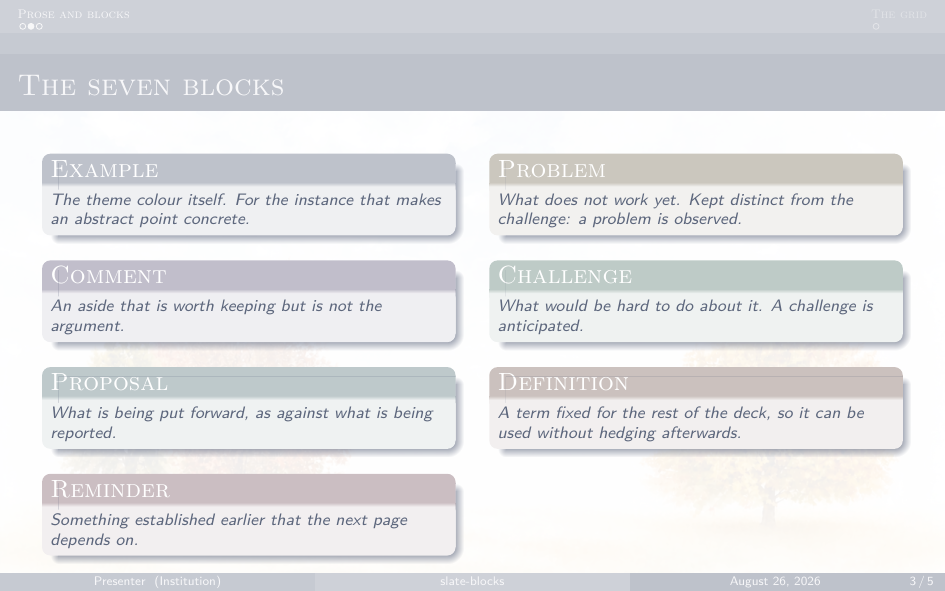
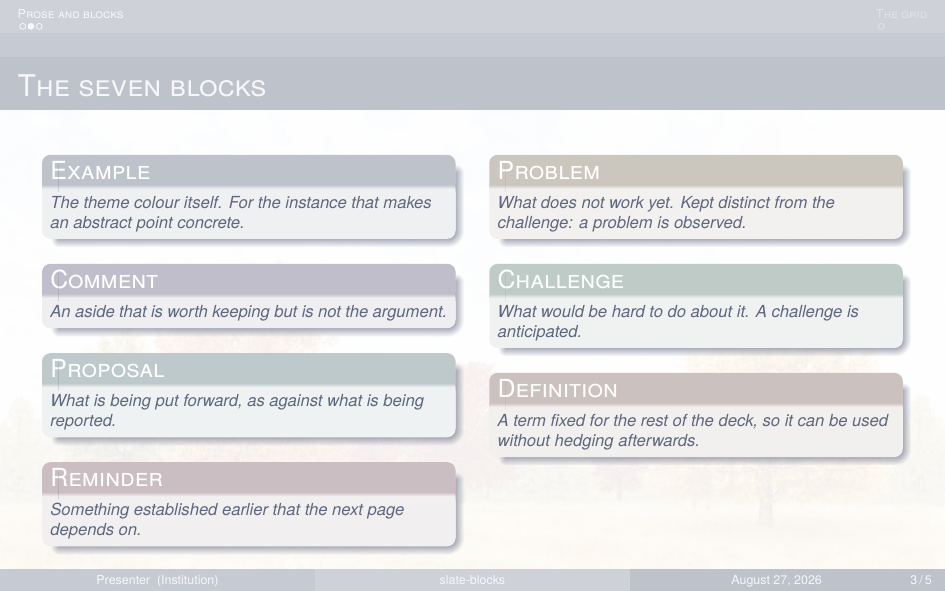
Set the title page on the photograph; TeX Gyre for the type
The new cover puts a maple where the old one had a fog bank, dead behind
the date and the logo. Measured, the date's ground went from a flat 247
(sd 0.8) to 190 (sd 39.7), and its contrast from 5.76:1 to 1.78:1.

Lowering the opacity does not recover it — 0.35 would be needed, and the
file's own note says the picture starts looking faded below 0.5. Nor does
a white scrim: at 0.40 the worst case only reaches 2.94:1, because the
ink is light to begin with. So the type moves instead of being defended.

The panel goes. Its stated job was to lift the title off a photograph
busy enough to swallow a plain one; the sky it actually sat on runs at
sd 4.2 with nothing darker than (213,228,245). It was armour against
nothing, and its hard border was the loudest edge on the page.

Title, author and affiliation now sit in the sky above the crowns; the
date sits on the field below them, which is the only other flat ground
the picture has; the logo goes to the top-right corner, the palest patch
on the page, and out of the bottom centre, the worst. Worst-case contrast
across the five lines is 5.28:1 to 5.74:1.

Two tints are raised to !300 and both are load-bearing: the subtitle
because with no panel it reads against sky and !250 gave 3.58:1, the date
because the field is darker than the sky and !250 gave 3.32:1. The date
is \small rather than \large, which does not relax that — smaller type
wants 4.5:1 where \large wanted 3:1. !300 is the lightest it can be while
it stands on the field.
[…]

Changed region(s): [[0.0, 0.2741, 1.0, 1.0], [0.5217, 0.2741, 0.982, 0.7919], [0.0, 0.1218, 0.3069, 0.1827]]

diff --git a/slate-blocks/style.tex b/slate-blocks/style.tex
@@ -8,6 +8,35 @@
 % Load after \documentclass and the \usetheme lines. See README.md.
 % =============================================================================
 
+% -----------------------------------------------------------------------------
+% THE TYPEFACES
+%
+% TeX Gyre Pagella (Palatino, 1949) for the roman, TeX Gyre Heros (Helvetica,
+% 1957) for the sans. Beamer sets its body in the sans, so Heros is what most
+% of the deck is in; \textrm reaches for Pagella, which is what the title and
+% subtitle use.
+%
+% WHY THESE AND NOT A BUNDLED FONT
+%
+% This template's one promise that midcentury-olive/ cannot make is that it
+% builds under pdfLaTeX as well as XeLaTeX. An OpenType face would mean
+% fontspec, and fontspec means XeLaTeX only — it would cost the second engine,
+% the engine=pdflatex in the README's Overleaf button, and the small zip.
+%
+% TeX Gyre ships with every TeX Live and is on Overleaf, so there is nothing to
+% bundle and nothing to install. It also sidesteps the trap that made
+% midcentury-olive/ carry its fonts in the first place: a face that is not
+% installed gets substituted in silence, and the deck that looked right on one
+% machine is set in something else on another. A missing package is a build
+% error; a missing font is not.
+%
+% Both are period faces, which suits the photograph, but they are not a RETRO
+% pairing and that is deliberate — midcentury-olive/ already occupies that
+% ground with EB Garamond and Montserrat, and the point of keeping two
+% templates is to have something to choose between.
+\usepackage{tgpagella}
+\usepackage{tgheros}
+
 \usepackage{xcolor}
 \usepackage{etoolbox}   % \BeforeBeginEnvironment, used by the block factory
 \usepackage{tikz}
@@ -160,8 +189,9 @@
 % -----------------------------------------------------------------------------
 % THE TITLE PAGE
 %
-% \slatetitlepage — a full-bleed photograph with the title in a double-stroked
-% box over it, the box shaded from one analogous colour to the other.
+% \slatetitlepage — a full-bleed photograph with the type set straight onto it:
+% title and author block in the sky, the date on the ground below the tree
+% line, the logo in the top-right corner. Nothing is boxed.
 %
 % Set the five commands below it first. They are separate commands rather than
 % arguments because the title page is the one place a deck wants long strings
@@ -173,7 +203,7 @@
 \newcommand{\slateAuthor}   {Author}
 \newcommand{\slateAffiliate}{Affiliation}
 \newcommand{\slateDate}     {\today}
-\newcommand{\slateLogo}     {\includegraphics[width=0.25\paperwidth]{figures/logo.png}}
+\newcommand{\slateLogo}     {\includegraphics[width=0.18\paperwidth]{figures/logo.png}}
 
 \newcommand{\slatetitlepage}{%
   \begin{tikzpicture}[remember picture, overlay]
@@ -191,29 +221,69 @@
     \node[inner sep=0pt, opacity=0.55] at (current page.center)
       {\slatecover{\slateBackground}};
 
-    % The double stroke and the shading are what lift the box off a photograph
-    % busy enough to swallow a plain panel. shading angle=60 runs the gradient
-    % across the diagonal rather than flat, so neither edge matches the photo
-    % behind it for long.
-    \node[
-      above=0.5cm, align=center,
-      draw=AnalogousColor-1!50,
-      left color=AnalogousColor-1!75, right color=AnalogousColor-1!25,
-      shading angle=60,
-      double, double distance=0.1cm,
-      inner xsep=15pt, inner ysep=10pt,
-      minimum width=0.7\textwidth, text width=0.6\textwidth,
-      color=AnalogousColor-2!250,
-    ] (title) at (current page.center)
-      {\LARGE\slateTitle \\[5pt] \small\slateSubTitle};
+    % NO PANEL, AND WHY NOT.
+    %
+    % There used to be a double-stroked, shaded box behind the title here. Its
+    % stated job was to lift the title off "a photograph busy enough to swallow
+    % a plain panel". Measure the ground it actually sat on and the premise
+    % fails: the sky behind it runs at sd 4.2 with no pixel darker than
+    % (213,228,245). The panel was armour against a busyness that is not there,
+    % and its hard border was the loudest edge on the page.
+    %
+    % What IS busy is the band of crowns across the middle, from about 0.61 of
+    % the page height to 0.86. So the type is placed around that band instead
+    % of being armoured against it: this block above it, the date below it.
+    % Read the numbers in these comments as worst-case contrast against the
+    % darkest single pixel under each line, not against its average.
+    %
+    % ANY NEW PHOTOGRAPH INVALIDATES ALL OF IT. These offsets are measurements
+    % of one picture, not a layout that adapts. Change \slateBackground and the
+    % first thing to do is find where its flat ground is.
+    %
+    % !300 rather than the !250 used elsewhere: with no panel the type is read
+    % against the sky directly, and at !250 the subtitle came to 3.58:1, under
+    % the 4.5:1 that text this size wants. !300 gives title 5.53:1 and subtitle
+    % 5.74:1.
+    \node[anchor=north, align=center, text width=0.62\paperwidth,
+          color=AnalogousColor-2!300]
+      (title) at ([yshift=-0.28\paperheight]current page.north)
+      {\LARGE\slateTitle \\[6pt] \small\slateSubTitle};
 
-    \node[below=0.5cm]  (author)    at (title.south)
+    % These two stay at !250 — they are still on sky, at 5.28:1 and 5.35:1.
+    % \slateAffiliate is the lowest line of the block and clears the crowns by
+    % about 0.02\paperheight. That is the whole budget: pushing this block
+    % further down puts the affiliation into the trees.
+    \node[below=0.55cm] (author)    at (title.south)
       {\color{AnalogousColor-1!250}\slateAuthor};
-    \node[below=0.25cm] (affiliate) at (author.south)
+    \node[below=0.22cm] (affiliate) at (author.south)
       {\color{AnalogousColor-1!250}\small\slateAffiliate};
-    \node[below=0.25cm] (date)      at (affiliate.south)
-      {\color{AnalogousColor-1!250}\large\slateDate};
-    \node[opacity=0.67, below=1cm]  at (affiliate.south) {\slateLogo};
+
+    % The date is deliberately NOT in that chain. It sits on the field below
+    % the tree line, which is the only other flat ground this photograph has:
+    % from 0.86 of the page down it runs at sd 8 with nothing darker than 188.
+    % Putting it there leaves the trees between the two blocks rather than
+    % behind either, and it is why the block above can sit as low as it does.
+    %
+    % !300 too, but for the opposite reason: the field is darker than the sky,
+    % 188 against 232 at worst, and at !250 the date came to 3.32:1. !300 puts
+    % it at 5.41:1. In the position it used to occupy — bottom centre, over the
+    % maple — it was 1.78:1.
+    %
+    % So !300 is the LIGHTEST this line can be while it stands on the field,
+    % and shrinking it does not relax that — smaller type wants 4.5:1 where
+    % \large only wanted 3:1. Anyone who wants it lighter has to move it back
+    % up into the sky with the rest of the block, where !250 reaches 5.2:1.
+    \node[anchor=south] (date)
+      at ([yshift=0.081\paperheight]current page.south)
+      {\color{AnalogousColor-1!300}\small\slateDate};
+
+    % Top-right, which is the flattest and palest patch on the page: mean 244,
+    % sd 4.4. Bottom centre, where this used to be, is the worst: mean 189,
+    % sd 29. Nothing here draws a box — the thin rectangle visible in demo.pdf
+    % is inside figures/logo.png, the placeholder, and goes with a real mark.
+    \node[anchor=north east, opacity=0.67]
+      at ([xshift=-0.045\paperwidth, yshift=-0.055\paperheight]current page.north east)
+      {\slateLogo};
 
   \end{tikzpicture}%
 }
@@ -275,14 +345,34 @@
     \tcbitem[swotheader=swotHelpful] {\color{swotInk}\swotAxisHelpful}
     \tcbitem[swotheader=swotHarmful] {\color{swotInk}\swotAxisHarmful}
 
+    % 2.5cm, not the 2.4cm this used to be. The parbox is rotated, so this
+    % number is the length the label has ALONG the row; the column's own 1cm is
+    % how many stacked lines fit across it.
+    %
+    % 2.4cm = 68.3pt, and "External origin" in Heros measures 69.8pt. It wrapped
+    % to two lines, which made four lines in a column that holds three, and the
+    % \tiny second line was pushed out of the box — it is simply missing from
+    % the render. "Internal origin" is 66.2pt and fitted, which is why only one
+    % of the two labels broke and why it was easy to miss. Any change of font
+    % has to be re-checked here; 2.5cm = 71.1pt leaves 1.3pt of slack.
+    %
+    % WHILE HERE — the deck's one standing Overfull \hbox is explained, though
+    % not fixed. README.md called it a phantom of the raster, on the grounds
+    % that narrowing the quadrant boxes never moved it. It is not the
+    % quadrants: it is the \tiny parenthetical in THIS parbox, which measures
+    % 77.5pt against the box's 71.1pt. Widening to 3.2cm does silence it — and
+    % costs an Overfull \vbox of 16.5pt instead, because the parbox width is
+    % the rotated label's height and the grid then no longer fits the frame.
+    % The ceiling is about 2.62cm and the label wants 2.73cm, so the last ~3pt
+    % has to come from shorter axis text, not from this number.
     \tcbitem[swotfirstcol=swotInternal]
-      {\rotatebox[origin=c]{90}{\parbox[t]{2.4cm}{\centering
+      {\rotatebox[origin=c]{90}{\parbox[t]{2.5cm}{\centering
         \color{swotInk}\swotAxisInternal\par}}}
     \tcbitem[swotbox=S] #1
     \tcbitem[swotbox=W] #2
 
     \tcbitem[swotfirstcol=swotExternal]
-      {\rotatebox[origin=c]{90}{\parbox[b]{2.4cm}{\centering
+      {\rotatebox[origin=c]{90}{\parbox[b]{2.5cm}{\centering
         \color{swotInk}\swotAxisExternal\par}}}
     \tcbitem[swotbox=O] #3
     \tcbitem[swotbox=T] #4

diff --git a/slate-blocks/README.md b/slate-blocks/README.md
@@ -13,8 +13,18 @@ changes nothing about the colours.
 ./check.sh demo     build demo.tex — every construct, filled
 ```
 
-pdfLaTeX or XeLaTeX; either works. Nothing here loads a font by filename, so
-unlike `midcentury-olive/` there is no font directory and nothing to install.
+pdfLaTeX or XeLaTeX; either works. The type is TeX Gyre Pagella (Palatino) and
+TeX Gyre Heros (Helvetica), loaded as ordinary packages — TeX Gyre ships with
+every TeX Live and is on Overleaf, so unlike `midcentury-olive/` there is no
+font directory and nothing to install. It also cannot go wrong quietly: a
+missing package is a build error, where a missing font is a silent
+substitution.
+
+Building under both engines is this template's one advantage over
+`midcentury-olive/`, and it is what rules out an OpenType face here — that
+would mean `fontspec`, and `fontspec` means XeLaTeX only. Neither face is a
+retro pairing, deliberately: `midcentury-olive/` already occupies that ground,
+and the point of keeping two templates is to have something to choose between.
 
 ## Before you build: the cover, and the logo
 
@@ -27,10 +37,13 @@ watercolour. It is used twice — full-bleed on the title page, and again at
 \renewcommand{\slateBackground}{figures/background.png}   % if you want them different
 ```
 
-Replace it and check two things. The title box is a pale gradient, so it
-vanishes over a pale sky — look at the cover, not at the thumbnail. And 6.7%
-was set against an image of this lightness; a darker photograph at the same
-opacity will fight the body text.
+Replace it and expect to re-measure the title page. Nothing on it is boxed —
+the type sits on the photograph — so where each line lands was chosen from
+where *this* picture is flat and pale, and a new one moves all of it. The
+offsets and the two `!300` tints in `\slatetitlepage` carry the numbers they
+were set from. Check the watermark too: 6.7% was set against an image of this
+lightness, and a darker photograph at the same opacity will fight the body
+text.
 
 `figures/logo.png` is a placeholder. No institution's mark ships here — a logo
 is its owner's trademark and the licence on these files does not extend to it.
@@ -117,6 +130,15 @@ the whole title page, and the watermark — needs the previous pass's `.aux`. A
 single `xelatex` leaves the cover blank and reports nothing. `check.sh` always
 builds twice; if you build by hand, do the same.
 
+**Two passes, on a clean tree.** Twice is enough to hold a settled layout, and
+not enough to reach one. On a fresh clone, or on the first build after moving
+anything on the title page, `check.sh` produces a title page with the
+photograph out of position and the type missing — silently, with no warning in
+the log. The third pass settles it, and every `check.sh` after that agrees to
+the pixel. **Run `./check.sh demo` twice after you clone, and twice after any
+change to `\slatetitlepage`.** This is why the committed screenshots look right
+despite the trap: they were taken from an already-settled `.aux`.
+
 **A cover photograph that does not cover the page.** The deck is 16:10 and most
 photographs are 16:9. `\includegraphics[width=\paperwidth]` scales the picture
 to the paper's width and leaves it about a tenth of the page short — a white
@@ -127,20 +149,32 @@ full width and scales by height instead when that is not tall enough, and the
 node sits at `current page.center` so whichever dimension overruns is cropped
 evenly by the page edge. Both the cover and the watermark go through it.
 
-**A title box over a pale sky.** The box is `AnalogousColor-1` shaded from 75%
-to 25% at `shading angle=60`, double-stroked. The double stroke and the
-diagonal gradient are both there so that neither edge matches the photograph
-behind it for long. Over a flat pale ground they are invisible and the box
-looks like a bug.
+**A panel defending against a busyness that is not there.** There used to be a
+double-stroked, shaded box behind the title, on the reasoning that a photograph
+can be busy enough to swallow a plain panel. It can — but measure the ground
+under the box before believing it does. Under the current cover the sky there
+runs at sd 4.2 with no pixel darker than `(213,228,245)`, so the box was armour
+against nothing, and its hard border was the loudest edge on the page.
+
+There is no panel now. The type is set straight onto the photograph, placed
+around the band of crowns rather than over it: title, author and affiliation
+above it, the date on the field below it, the logo in the top-right corner.
+Every line was checked against the darkest single pixel beneath it, and the
+worst of them is 5.28:1.
+
+**Those offsets are measurements of one photograph.** They are not a layout that
+adapts. Replace `\slateBackground` and the first thing to do is find where the
+new picture's flat ground is; the second is to re-check the two `!300` tints,
+which exist because a specific patch of sky and a specific patch of field were
+a specific brightness.
 
 **The watermark at the wrong strength.** 6.7% reads as paper texture. At 15% it
 reads as an image, and the body text has to fight it. It is one number in
 `\slateWatermark`, and it is worth re-checking after you change the photograph.
 
 **Cover opacity.** The photograph is laid down at `opacity=0.55`. At full
-strength it and the title box sit at the same weight and the box stops reading
-as something over it; below about 0.5 the picture stops looking held back and
-starts looking faded.
+strength it comes up to the weight of the type over it; below about 0.5 it
+stops looking held back and starts looking faded.
 
 The usual recipe is two layers — the image at 0.65 with a white rectangle at
 0.15 over it. It is not worth the second layer here. The page behind is white,
@@ -151,13 +185,23 @@ not already white.
 
 ## Noise in the log
 
-Titled frames on this theme report an `Overfull \hbox` of a few points that
-does not respond to the width of anything on the page — it was traced by
-building the SWOT page at four different grid widths and getting the same
-`6.03252pt` each time. `check.sh` reports it rather than hiding it; if a number
-does not move when you change the thing it names, it is not measuring that
-thing. The report that matters is the first section, *frames whose content is
-too tall*, and that one is exact.
+The SWOT page reports one `Overfull \hbox` of about six points. This README
+used to call it a phantom of the raster, on the evidence that narrowing the
+quadrant boxes at four different widths never moved it. That evidence was
+sound and the conclusion was wrong: it is not the quadrants, it is the `\tiny`
+parenthetical in the rotated axis label, which measures 77.5pt inside a 71.1pt
+`\parbox`. A number that does not move when you change one thing may still be
+measuring another.
+
+It is explained but not fixed, because the obvious fix trades it for a worse
+warning. Widening that `\parbox` to 3.2cm silences the `\hbox` and produces an
+`Overfull \vbox` of 16.5pt instead — the parbox is rotated, so its width is the
+label's height, and the grid stops fitting the frame. The ceiling is about
+2.62cm; the label wants 2.73cm. Closing the last three points means shorter
+axis text, not a bigger box.
+
+The report that matters is the first section, *frames whose content is too
+tall*, and that one is exact.
 
 ## What is in `style.tex`
 
@@ -167,7 +211,7 @@ too tall*, and that one is exact.
 | `\newcolouredblock` | the block factory, and the seven it builds |
 | `\slatecover{file}` | scales an image to cover the slide at any aspect ratio, without distorting it |
 | `\slateWatermark` | the cover photograph on every slide at 6.7% |
-| `\slatetitlepage` | full-bleed photograph, double-stroked gradient title box, author/affiliation/date/logo |
+| `\slatetitlepage` | full-bleed photograph, type set straight onto it — title block in the sky, date on the field, logo top-right |
 | `\swot` | the 3×3 grid, its axis labels and its mixed quadrant colours |
 
 Load it after `\documentclass` and the `\usetheme` lines. The five title-page

diff --git a/README.md b/README.md
@@ -13,7 +13,7 @@ combine two.
 | | | |
 |---|---|---|
 | [`midcentury-olive/`](midcentury-olive/) | XeLaTeX · EB Garamond + Montserrat · olive green | A quiet, typographic 16:9 deck. Small-caps frame titles on a full-bleed band, card rows, section dividers with a subtitle. Built for a 45-page proposal defence. |
-| [`slate-blocks/`](slate-blocks/) | pdfLaTeX or XeLaTeX · stock fonts · slate blue-grey | A 16:10 deck on stock beamer themes, with a photographic cover and seven named blocks in place of beamer's three. Every colour derived from one. |
+| [`slate-blocks/`](slate-blocks/) | pdfLaTeX or XeLaTeX · TeX Gyre Pagella + Heros · slate blue-grey | A 16:10 deck on stock beamer themes, with a photographic cover and seven named blocks in place of beamer's three. Every colour derived from one. |
 
 Both carry the same `\swot` grid, each in its own palette.
 
@@ -66,12 +66,14 @@ a deck whose type size changes from page to page.
 positioned with `remember picture` needs the previous pass's `.aux`, and a
 one-pass build leaves those pages blank without complaining.
 
-**Bundle the fonts, load them by filename** — or use none at all. A font that is
-not installed is substituted in silence, and a deck that looked fine on one
-machine is set in Helvetica on another. Loading by fontconfig family name also
-loses OpenType features — `smcp` in particular — with no warning.
-`slate-blocks/` sidesteps this by staying on the stock faces; `midcentury-olive/`
-carries its two in `fonts/`.
+**Bundle the fonts, load them by filename** — or take them from a package that
+every TeX Live has. What is not allowed is naming a face and hoping: a font
+that is not installed is substituted in silence, and a deck that looked fine on
+one machine is set in Helvetica on another. Loading by fontconfig family name
+also loses OpenType features — `smcp` in particular — with no warning.
+`midcentury-olive/` carries its two in `fonts/`; `slate-blocks/` uses TeX Gyre,
+which is a `\usepackage` away and therefore fails loudly if it is missing at
+all. Both routes turn a silent substitution into an error.
 
 **Carry its own licence, and its upstream's.** Most of these start from someone
 else's theme. The obligation travels with the files, so the licence lives in the
